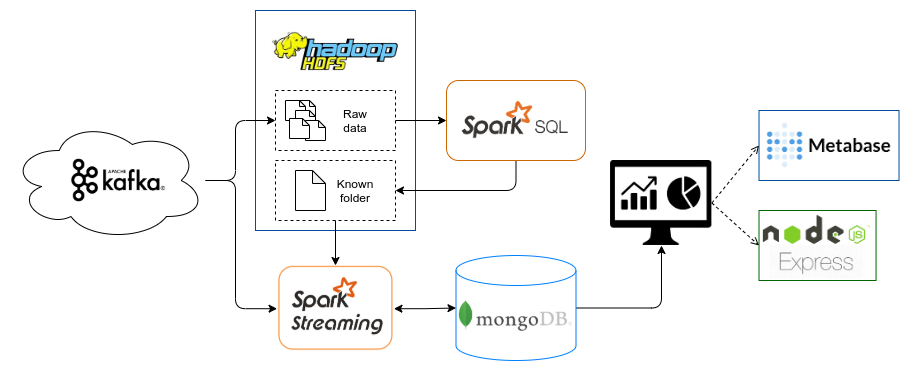
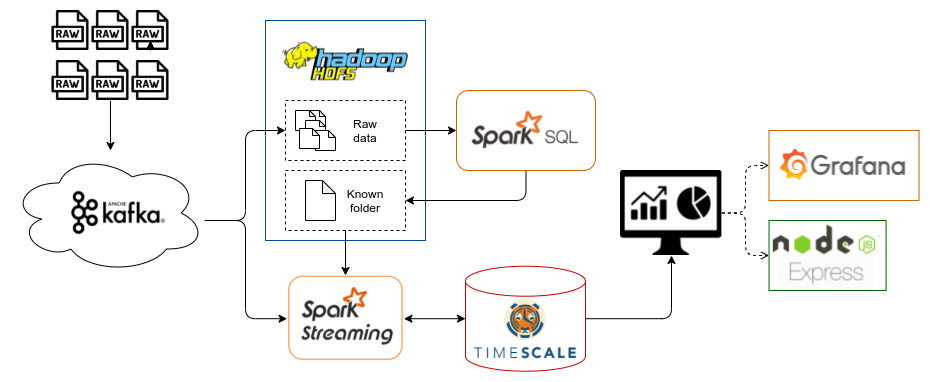
update architecture diagram & flowchart

diff --git a/README.md b/README.md
@@ -23,7 +23,18 @@ The architecture includes:
 ### Flowchart
 
 Overall workflow of the system is described as follow:
-![flowchart](./images/flowchart.png)
+
+#### Preprocessing data
+
+![flowchart-preprocess](./images/flowchart-preprocess.png)
+
+#### Batch layer
+
+![flowchart-batch-layer](./images/flowchart-batch-layer.png)
+
+#### Stream layer
+
+![flowchart-stream-layer](./images/flowchart-stream-layer.png)
 
 ## Performance Testing
 
